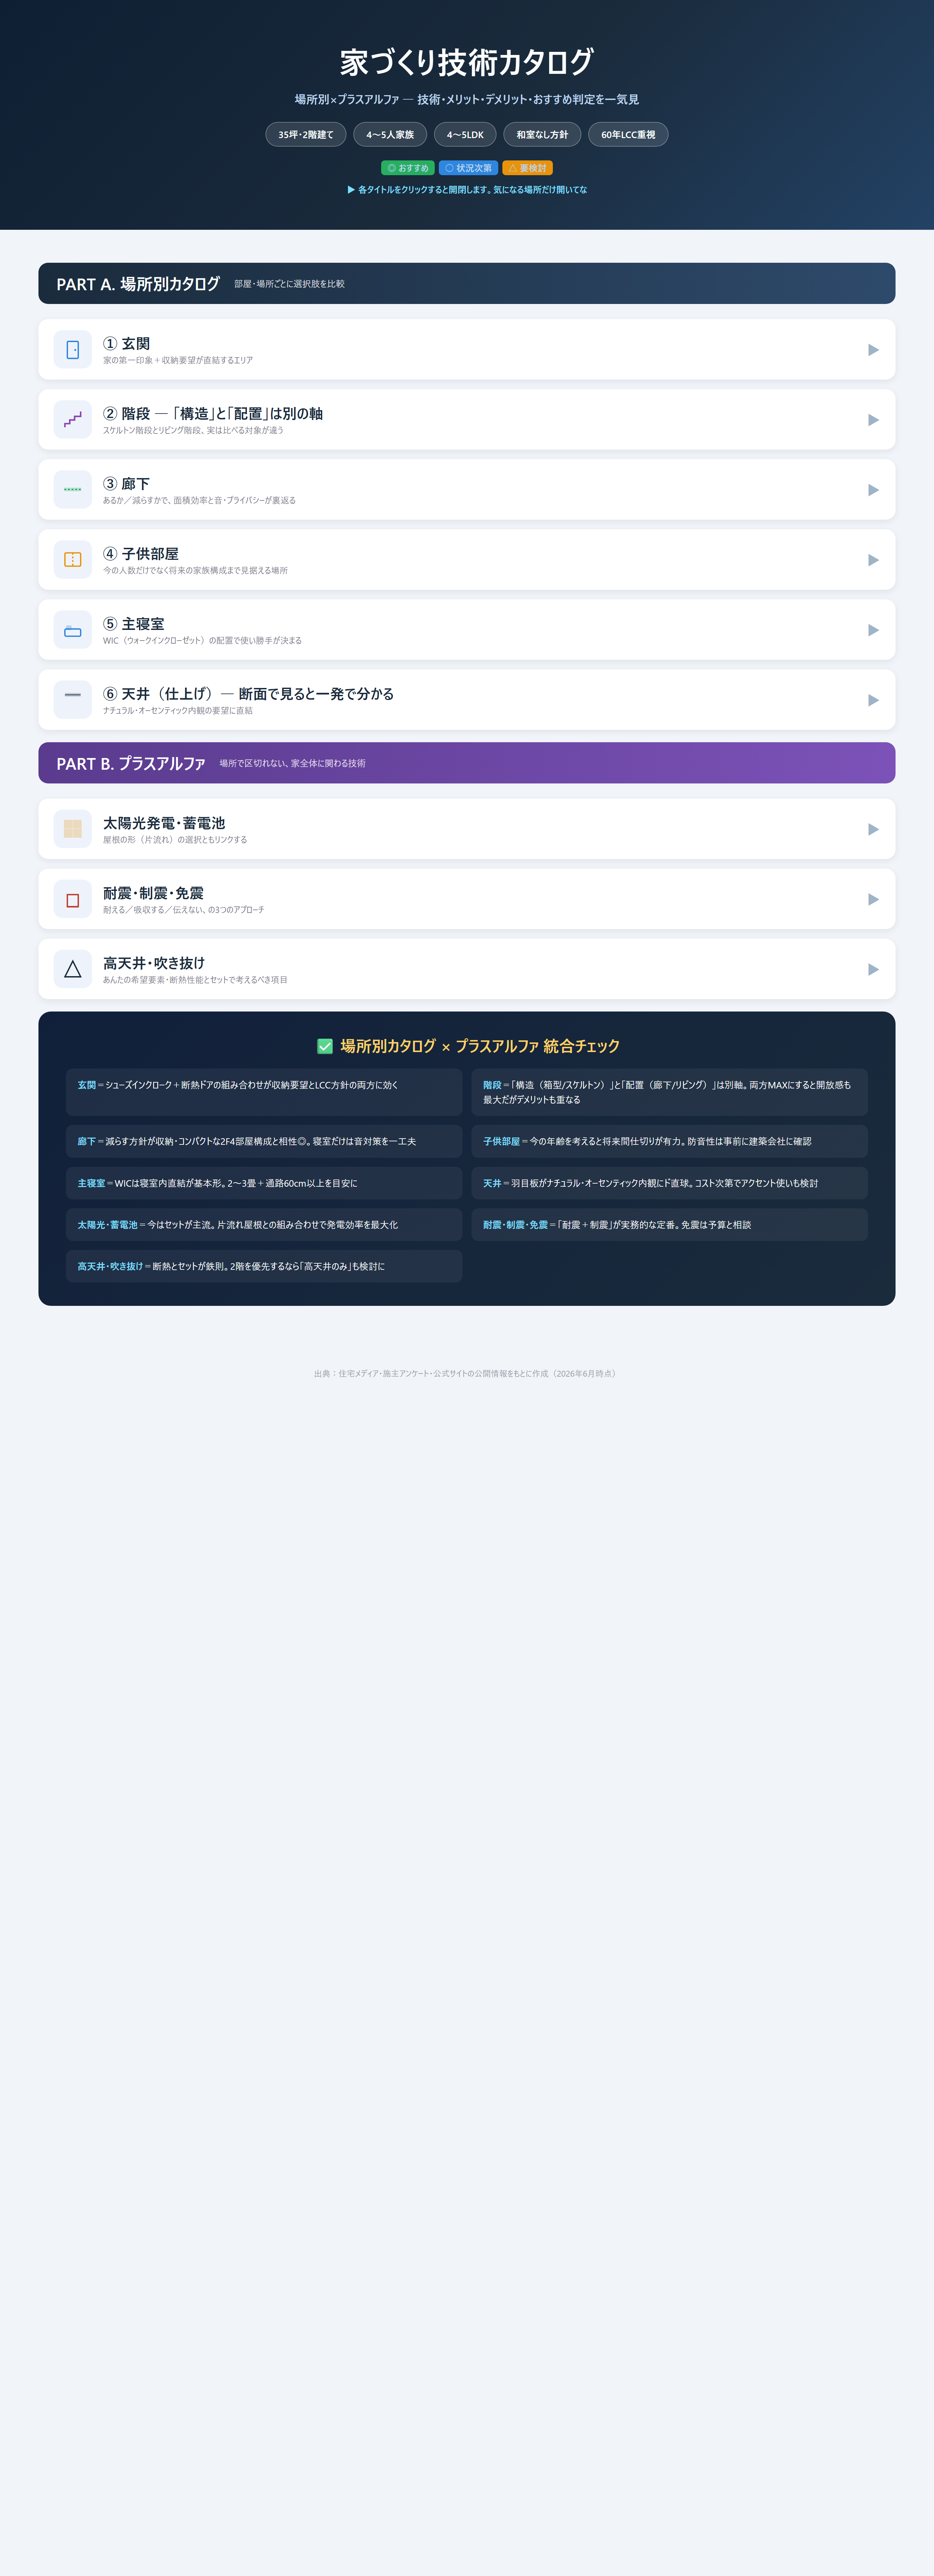
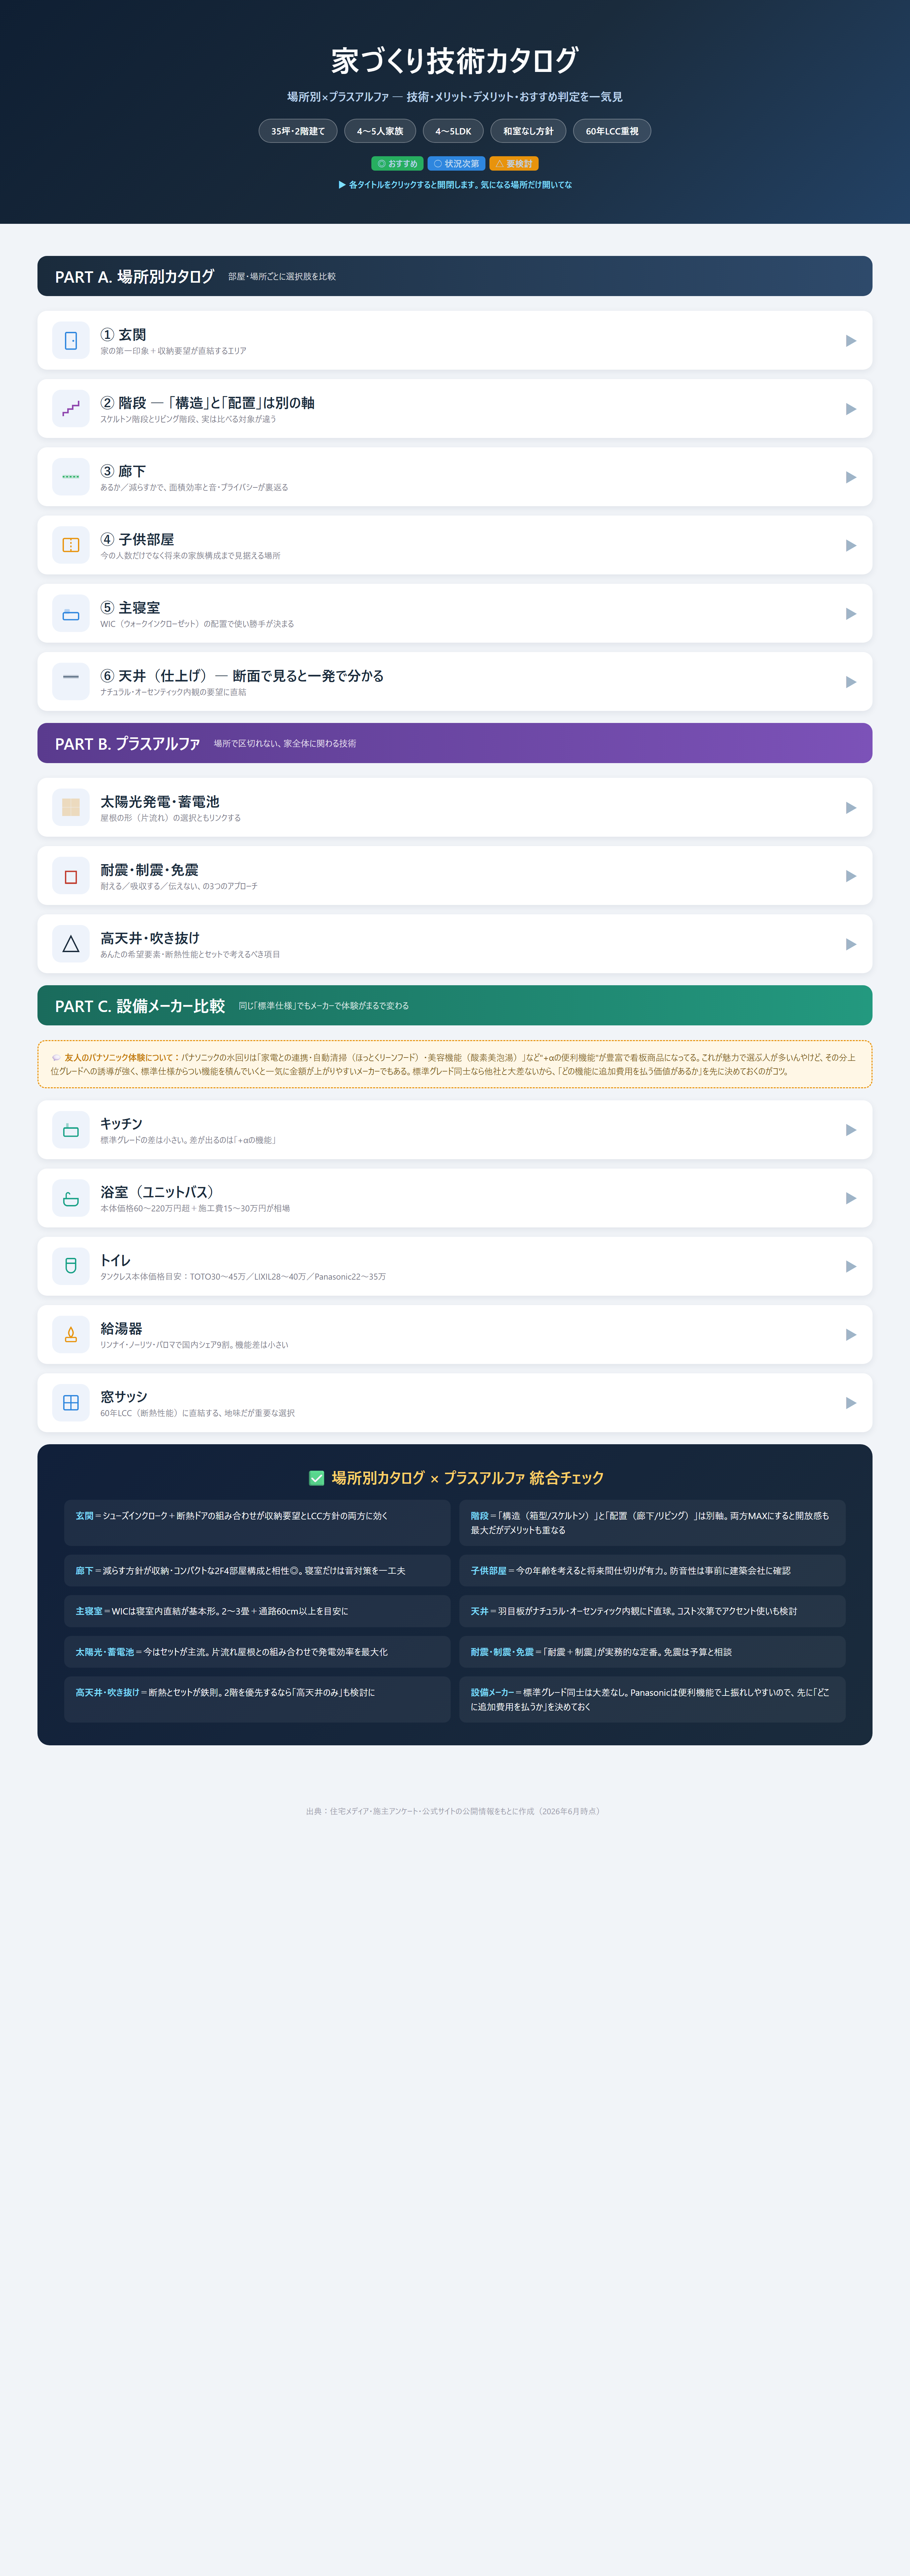
設備メーカー比較（キッチン・浴室・トイレ・給湯器・窓サッシ）を追加

Changed region(s): [[0.0312, 0.0, 0.9688, 0.6864], [0.9062, 0.156, 0.9375, 0.2184]]

diff --git a/house_catalog_by_location.html b/house_catalog_by_location.html
@@ -370,6 +370,156 @@ details.loc[open] summary{border-radius:14px 14px 0 0;box-shadow:0 1px 0 rgba(0,
 
 </div>
 
+<div class="bigsec">
+<div class="bigsec-head" style="background:linear-gradient(90deg,#1a6b5c,#23997f);"><h2>PART C. 設備メーカー比較</h2><span class="d">同じ「標準仕様」でもメーカーで体験がまるで変わる</span></div>
+
+<div class="daiwa-callout" style="margin-bottom:18px;">💬 <b>友人のパナソニック体験について：</b>パナソニックの水回りは「家電との連携・自動清掃（ほっとくリーンフード）・美容機能（酸素美泡湯）」など"+αの便利機能"が豊富で看板商品になってる。これが魅力で選ぶ人が多いんやけど、その分上位グレードへの誘導が強く、標準仕様からつい機能を積んでいくと一気に金額が上がりやすいメーカーでもある。標準グレード同士なら他社と大差ないから、「どの機能に追加費用を払う価値があるか」を先に決めておくのがコツ。</div>
+
+<!-- キッチン -->
+<details class="loc">
+<summary><div class="icowrap"><svg width="30" height="30" viewBox="0 0 34 34"><rect x="5" y="14" width="24" height="14" rx="2" fill="none" stroke="#16a085" stroke-width="2.2"/><line x1="5" y1="14" x2="29" y2="14" stroke="#16a085" stroke-width="2.2"/><rect x="9" y="6" width="4" height="8" fill="#16a085" opacity=".4"/></svg></div>
+<div class="ttl"><h3>キッチン</h3><div class="note">標準グレードの差は小さい。差が出るのは「+αの機能」</div></div><div class="chev">▶</div></summary>
+<div class="loc-body">
+<div class="opt-grid c3">
+  <div class="optcard"><div class="ohead"><div class="name">LIXIL</div><span class="osumi s1">◎</span></div>
+  <div class="obody">
+  <div class="mm good"><span class="k">特徴</span>認知度No.1の総合住宅設備メーカー。「らくパッと収納」「くるりん排水口」など独自機能、ラインナップが豊富</div>
+  <div class="mm bad"><span class="k">価格帯</span>エントリー50万円台〜上位グレード約100万円前後と幅が広い</div>
+  </div></div>
+
+  <div class="optcard"><div class="ohead"><div class="name">TOTO</div><span class="osumi s2">○</span></div>
+  <div class="obody">
+  <div class="mm good"><span class="k">特徴</span>水栓金具で国内トップシェア（水ほうき水栓）。「すべり台シンク」で清掃性に優れ、5年保証（他社は2年が多い）</div>
+  <div class="mm bad"><span class="k">価格帯</span>中〜上位グレードに強み。清掃性重視ならここ</div>
+  </div></div>
+
+  <div class="optcard"><div class="ohead"><div class="name">Panasonic</div><span class="osumi s3">△</span></div>
+  <div class="obody">
+  <div class="mm good"><span class="k">特徴</span>家電・IoT連携が強み。「トリプルワイドIH」「ほっとくリーンフード（自動清掃）」など共働き世代に人気の独自機能</div>
+  <div class="mm bad"><span class="k">価格帯</span>便利機能を積むほど高額化しやすい。友人の事例はまさにこのパターン</div>
+  </div></div>
+
+  <div class="optcard"><div class="ohead"><div class="name">クリナップ</div><span class="osumi s2">○</span></div>
+  <div class="obody">
+  <div class="mm good"><span class="k">特徴</span>業界初オールステンレスキャビネット「ステディア」。耐久性・清掃性に優れる</div>
+  <div class="mm bad"><span class="k">価格帯</span>ステディア約85〜160万円、最上位「セントロ」は130〜230万円超</div>
+  </div></div>
+
+  <div class="optcard"><div class="ohead"><div class="name">タカラスタンダード</div><span class="osumi s1">◎</span></div>
+  <div class="obody">
+  <div class="mm good"><span class="k">特徴</span>熱・湿気に強い「ホーロー」製。掃除のしやすさはトップクラス</div>
+  <div class="mm bad"><span class="k">価格帯</span>エントリー26万円〜、最上位「LEMURE」でも72万円台と比較的安い</div>
+  </div></div>
+</div>
+</div>
+</details>
+
+<!-- 浴室 -->
+<details class="loc">
+<summary><div class="icowrap"><svg width="30" height="30" viewBox="0 0 34 34"><path d="M5 18 H29 V24 a6 6 0 0 1-6 6 H11 a6 6 0 0 1-6-6 Z" fill="none" stroke="#16a085" stroke-width="2.2"/><path d="M9 18 V11 a3 3 0 0 1 6 0" fill="none" stroke="#16a085" stroke-width="2"/></svg></div>
+<div class="ttl"><h3>浴室（ユニットバス）</h3><div class="note">本体価格60〜220万円超＋施工費15〜30万円が相場</div></div><div class="chev">▶</div></summary>
+<div class="loc-body">
+<div class="opt-grid c4">
+  <div class="optcard"><div class="ohead"><div class="name">TOTO</div><span class="osumi s1">◎</span></div>
+  <div class="obody">
+  <div class="mm good"><span class="k">特徴</span>「ほっカラリ床」が柔らかく転倒時も安心。子供を膝をついて洗っても痛くない</div>
+  <div class="mm bad"><span class="k">向いてる人</span>子育て家庭に特に好評</div>
+  </div></div>
+
+  <div class="optcard"><div class="ohead"><div class="name">LIXIL</div><span class="osumi s1">◎</span></div>
+  <div class="obody">
+  <div class="mm good"><span class="k">特徴</span>コスパ良好（リノビオV/リモア）。「肩湯」（スパージュ）やマット質感パネルでデザイン性も高い</div>
+  <div class="mm bad"><span class="k">向いてる人</span>コスパとデザインのバランス重視に</div>
+  </div></div>
+
+  <div class="optcard"><div class="ohead"><div class="name">Panasonic</div><span class="osumi s3">△</span></div>
+  <div class="obody">
+  <div class="mm good"><span class="k">特徴</span>空間コーディネート力が高い（ココチーノ）。「酸素美泡湯」など美容機能が充実</div>
+  <div class="mm bad"><span class="k">向いてる人</span>美容機能込みだと価格が上がりやすい</div>
+  </div></div>
+
+  <div class="optcard"><div class="ohead"><div class="name">タカラスタンダード</div><span class="osumi s2">○</span></div>
+  <div class="obody">
+  <div class="mm good"><span class="k">特徴</span>2.5cm刻みの自由設計＋耐震。ホーロー壁＋磁器タイル床「キープクリーンフロア」で耐久・清掃性最強クラス</div>
+  <div class="mm bad"><span class="k">向いてる人</span>長く使う前提の耐久性重視に</div>
+  </div></div>
+</div>
+</div>
+</details>
+
+<!-- トイレ -->
+<details class="loc">
+<summary><div class="icowrap"><svg width="30" height="30" viewBox="0 0 34 34"><rect x="9" y="4" width="16" height="8" rx="2" fill="none" stroke="#16a085" stroke-width="2.2"/><path d="M9 12 H25 V20 a8 8 0 0 1-16 0 Z" fill="none" stroke="#16a085" stroke-width="2.2"/></svg></div>
+<div class="ttl"><h3>トイレ</h3><div class="note">タンクレス本体価格目安：TOTO30〜45万／LIXIL28〜40万／Panasonic22〜35万</div></div><div class="chev">▶</div></summary>
+<div class="loc-body">
+<div class="opt-grid c3">
+  <div class="optcard"><div class="ohead"><div class="name">TOTO</div><span class="osumi s1">◎</span></div>
+  <div class="obody">
+  <div class="mm good"><span class="k">特徴</span>シェア約6割の定番。「セフィオンテクト」で汚れが落ちやすく、「トルネード洗浄」で節水・静音。ウォシュレットはTOTOの登録商標</div>
+  <div class="mm bad"><span class="k">価格</span>3社中やや高めだが実績・信頼性No.1</div>
+  </div></div>
+
+  <div class="optcard"><div class="ohead"><div class="name">LIXIL</div><span class="osumi s2">○</span></div>
+  <div class="obody">
+  <div class="mm good"><span class="k">特徴</span>「アクアセラミック」表面が超親水性で水アカ固着を防ぐ。デザイン性が高くインテリアに合わせやすい</div>
+  <div class="mm bad"><span class="k">価格</span>TOTOとPanasonicの中間程度</div>
+  </div></div>
+
+  <div class="optcard"><div class="ohead"><div class="name">Panasonic</div><span class="osumi s1">◎</span></div>
+  <div class="obody">
+  <div class="mm good"><span class="k">特徴</span>「スゴピカ素材」（ガラス樹脂）で水アカ・傷がつきにくい。陶器より軽量で施工性も良い</div>
+  <div class="mm bad"><span class="k">価格</span>3社中もっとも安い傾向。コスパ重視ならここ</div>
+  </div></div>
+</div>
+</div>
+</details>
+
+<!-- 給湯器 -->
+<details class="loc">
+<summary><div class="icowrap"><svg width="30" height="30" viewBox="0 0 34 34"><path d="M17 5 C12 13 12 16 17 22 C22 16 22 13 17 5 Z" fill="none" stroke="#e8930c" stroke-width="2.2"/><rect x="8" y="22" width="18" height="7" rx="1.5" fill="none" stroke="#e8930c" stroke-width="2"/></svg></div>
+<div class="ttl"><h3>給湯器</h3><div class="note">リンナイ・ノーリツ・パロマで国内シェア9割。機能差は小さい</div></div><div class="chev">▶</div></summary>
+<div class="loc-body">
+<div class="opt-grid c2">
+  <div class="optcard"><div class="ohead"><div class="name">リンナイ</div><span class="osumi s1">◎</span></div>
+  <div class="obody">
+  <div class="mm good"><span class="k">特徴</span>名古屋本社、ガス機器国内シェア1位。省エネ・エコ機能を継続的に強化</div>
+  <div class="mm bad"><span class="k">注意点</span>機能・性能は他社と大きな差はない</div>
+  </div></div>
+
+  <div class="optcard"><div class="ohead"><div class="name">ノーリツ</div><span class="osumi s2">○</span></div>
+  <div class="obody">
+  <div class="mm good"><span class="k">特徴</span>神戸本社、シェア国内2位。UV除菌ユニットや、浴室への入退室を確認できる「見まもり機能」をプレミアム機に搭載</div>
+  <div class="mm bad"><span class="k">注意点</span>見まもり機能は高齢の親世帯との同居予定があれば検討価値あり</div>
+  </div></div>
+</div>
+<div class="note-box"><b>結論：</b>給湯器はメーカーよりも「号数（給湯能力）」選びの方が重要。4〜5人家族なら24号以上が目安。</div>
+</div>
+</details>
+
+<!-- 窓サッシ -->
+<details class="loc">
+<summary><div class="icowrap"><svg width="30" height="30" viewBox="0 0 34 34"><rect x="5" y="5" width="24" height="24" rx="2" fill="none" stroke="#2e86de" stroke-width="2.2"/><line x1="17" y1="5" x2="17" y2="29" stroke="#2e86de" stroke-width="2"/><line x1="5" y1="17" x2="29" y2="17" stroke="#2e86de" stroke-width="2"/></svg></div>
+<div class="ttl"><h3>窓サッシ</h3><div class="note">60年LCC（断熱性能）に直結する、地味だが重要な選択</div></div><div class="chev">▶</div></summary>
+<div class="loc-body">
+<div class="opt-grid c2">
+  <div class="optcard"><div class="ohead"><div class="name">LIXIL</div><span class="osumi s2">○</span></div>
+  <div class="obody">
+  <div class="mm good"><span class="k">特徴</span>窓サッシ国内シェアを二分する大手。アルミ樹脂複合サッシの規格品はベトナム製が多く、コスト効率が良い</div>
+  <div class="mm bad"><span class="k">注意点</span>樹脂サッシのラインナップ・断熱性能はYKK APにやや譲る場面も</div>
+  </div></div>
+
+  <div class="optcard"><div class="ohead"><div class="name">YKK AP</div><span class="osumi s1">◎</span></div>
+  <div class="obody">
+  <div class="mm good"><span class="k">特徴</span>原材料以外ほぼ国内製造。樹脂サッシは熱を通しにくく、断熱性能はアルミの約1,400倍とされる</div>
+  <div class="mm bad"><span class="k">注意点</span>樹脂窓は費用が上がり、紫外線で劣化する可能性もある</div>
+  </div></div>
+</div>
+<div class="note-box"><b>60年LCCで選ぶなら：</b>断熱重視ならYKK APの樹脂サッシ（APW330/430など）が王道。コスト優先ならLIXILのアルミ樹脂複合も十分実用的。</div>
+</div>
+</details>
+
+</div>
+
 <div class="final-box">
 <h2>✅ 場所別カタログ × プラスアルファ 統合チェック</h2>
 <div class="final-list">
@@ -382,6 +532,7 @@ details.loc[open] summary{border-radius:14px 14px 0 0;box-shadow:0 1px 0 rgba(0,
 <div class="fitem"><b>太陽光・蓄電池</b>＝今はセットが主流。片流れ屋根との組み合わせで発電効率を最大化</div>
 <div class="fitem"><b>耐震・制震・免震</b>＝「耐震＋制震」が実務的な定番。免震は予算と相談</div>
 <div class="fitem"><b>高天井・吹き抜け</b>＝断熱とセットが鉄則。2階を優先するなら「高天井のみ」も検討に</div>
+<div class="fitem"><b>設備メーカー</b>＝標準グレード同士は大差なし。Panasonicは便利機能で上振れしやすいので、先に「どこに追加費用を払うか」を決めておく</div>
 </div>
 </div>
 